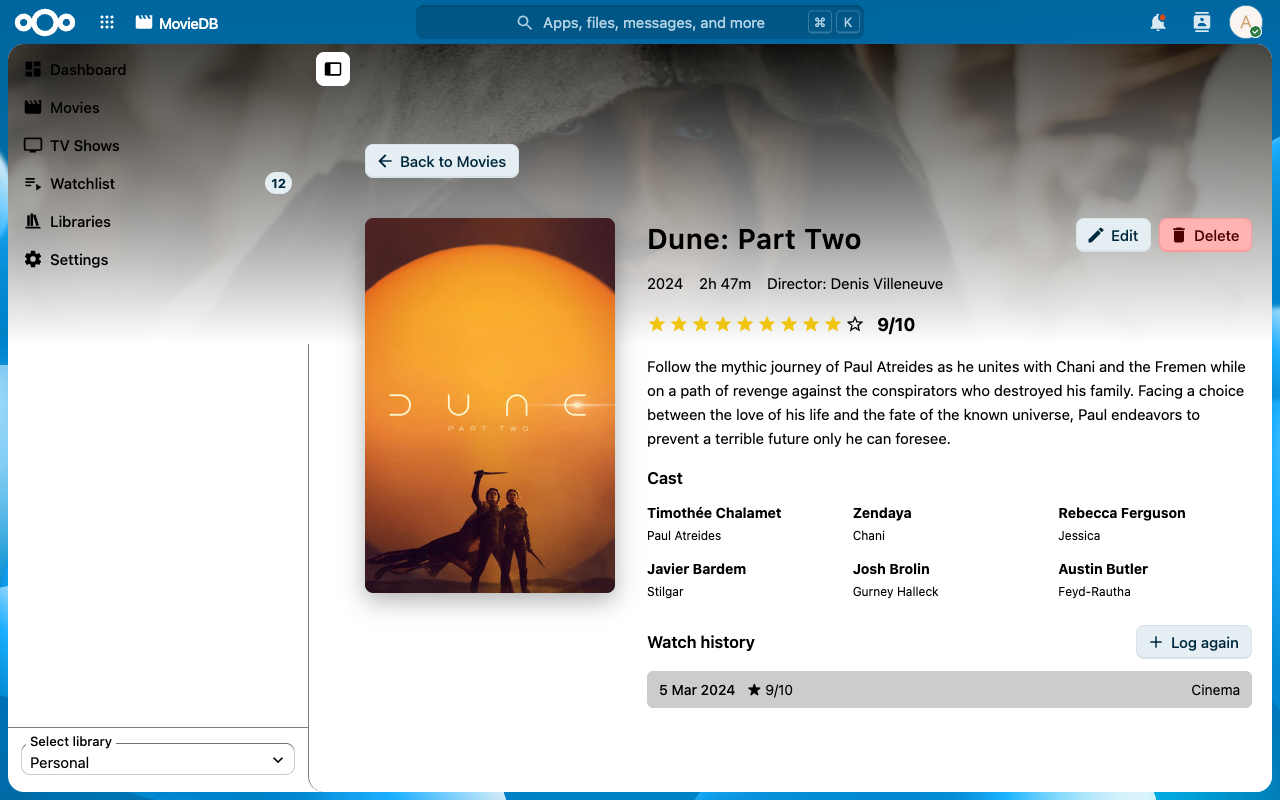
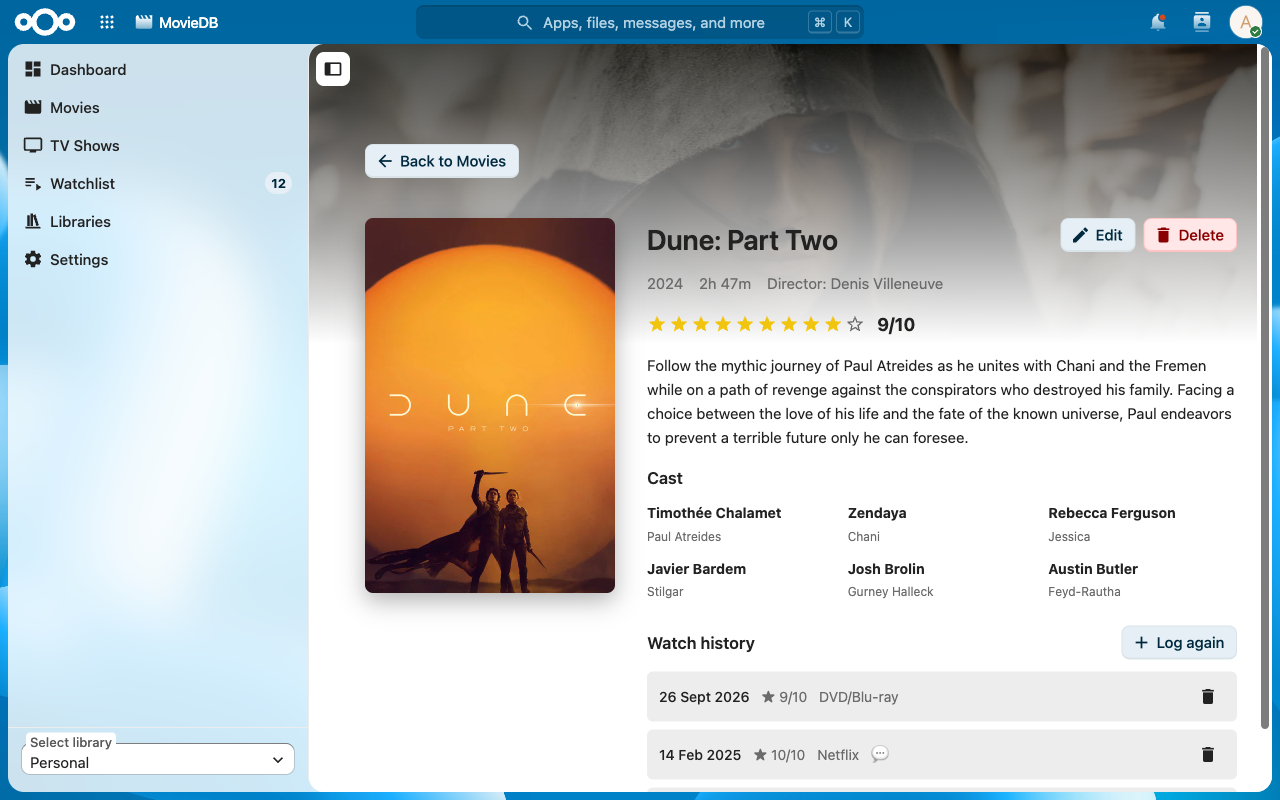
docs: new App Store screenshots with real TMDB covers
Retaken on a fresh Nextcloud 35 with real TMDB data, 1280x800, light theme:
dashboard, movies, movie detail (three watches), TV shows, TV show detail
(episode progress), watchlist, library sharing (members dialog), Settings.
New: import / export (import dialog) and the admin page for the key for all
users. Dropped: dashboard-charts and the two Add Movie search shots (the App
Store allows 10). The old movie and TV detail shots still showed the
backdrop covering the navigation (#69).

Settings: a little space between the "Manage the key for all users" link
and the API key label.

diff --git a/src/views/Settings.vue b/src/views/Settings.vue
@@ -582,6 +582,11 @@ export default {
             color: var(--color-primary);
         }
     }
+
+    // Hint about the key for all users, between the description and the key field
+    .api-key-admin-hint {
+        margin: -8px 0 16px;
+    }
 }
 
 .form-group {

diff --git a/CHANGELOG.md b/CHANGELOG.md
@@ -19,6 +19,8 @@ and this project adheres to [Semantic Versioning](https://semver.org/spec/v2.0.0
   and a link to manage the key for all users.
 
 ### Changed
+- New App Store screenshots with real TMDB covers, now including
+  sharing a library, import / export and the key for all users.
 - Requires Nextcloud 33 or later and PHP 8.2 or later. Nextcloud 32
   reached end of life in September 2026; servers still on it keep
   MovieDB 1.6.1.
